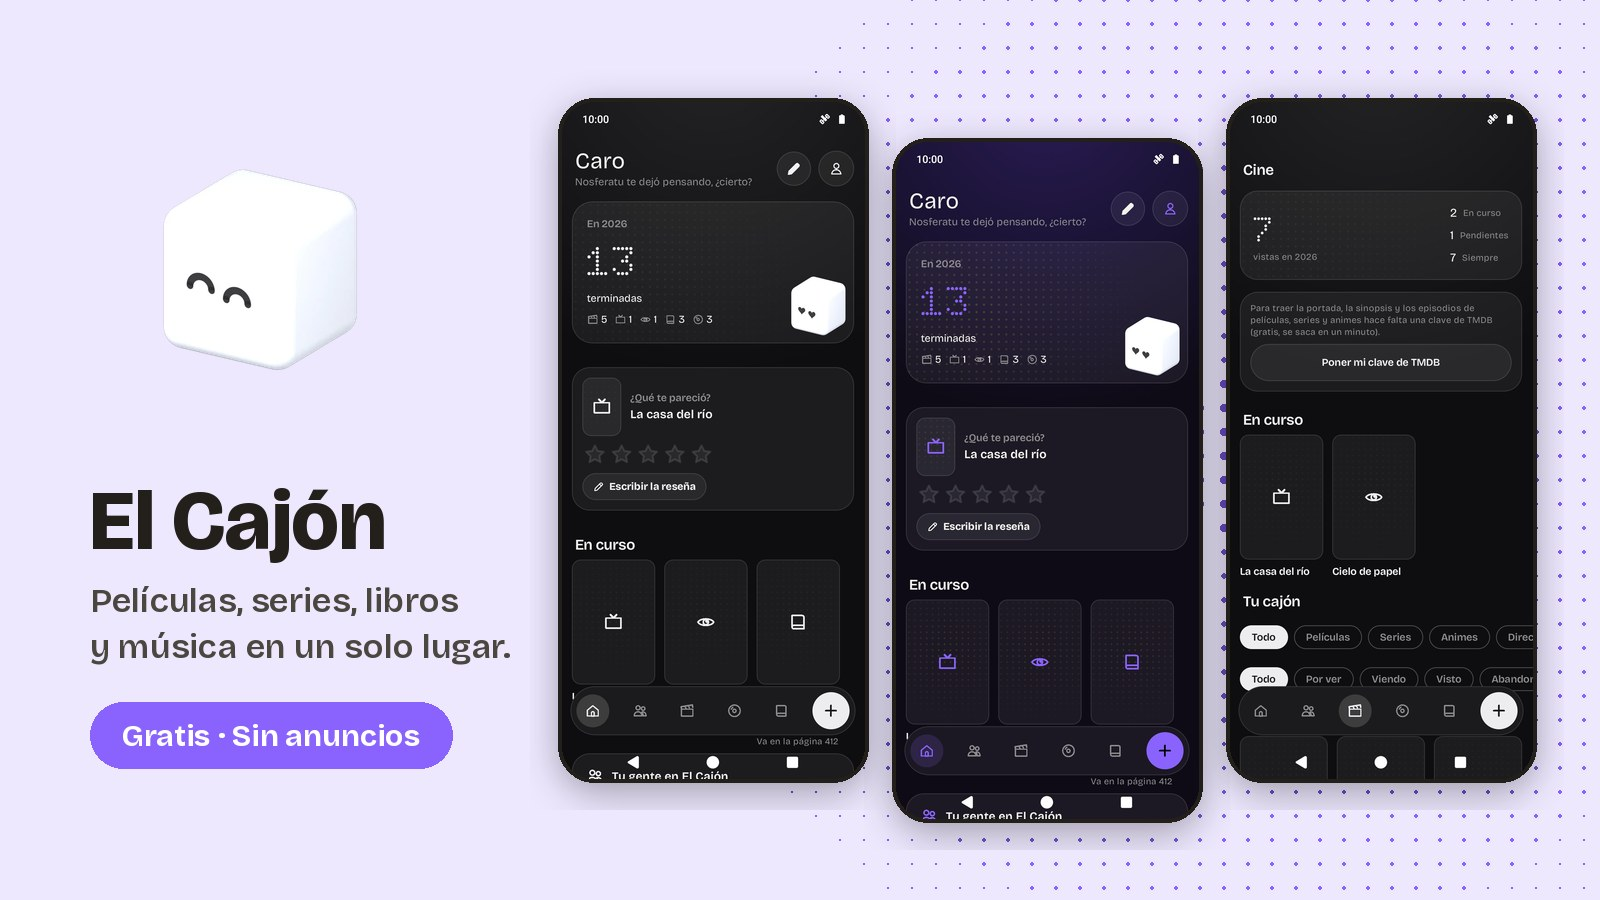
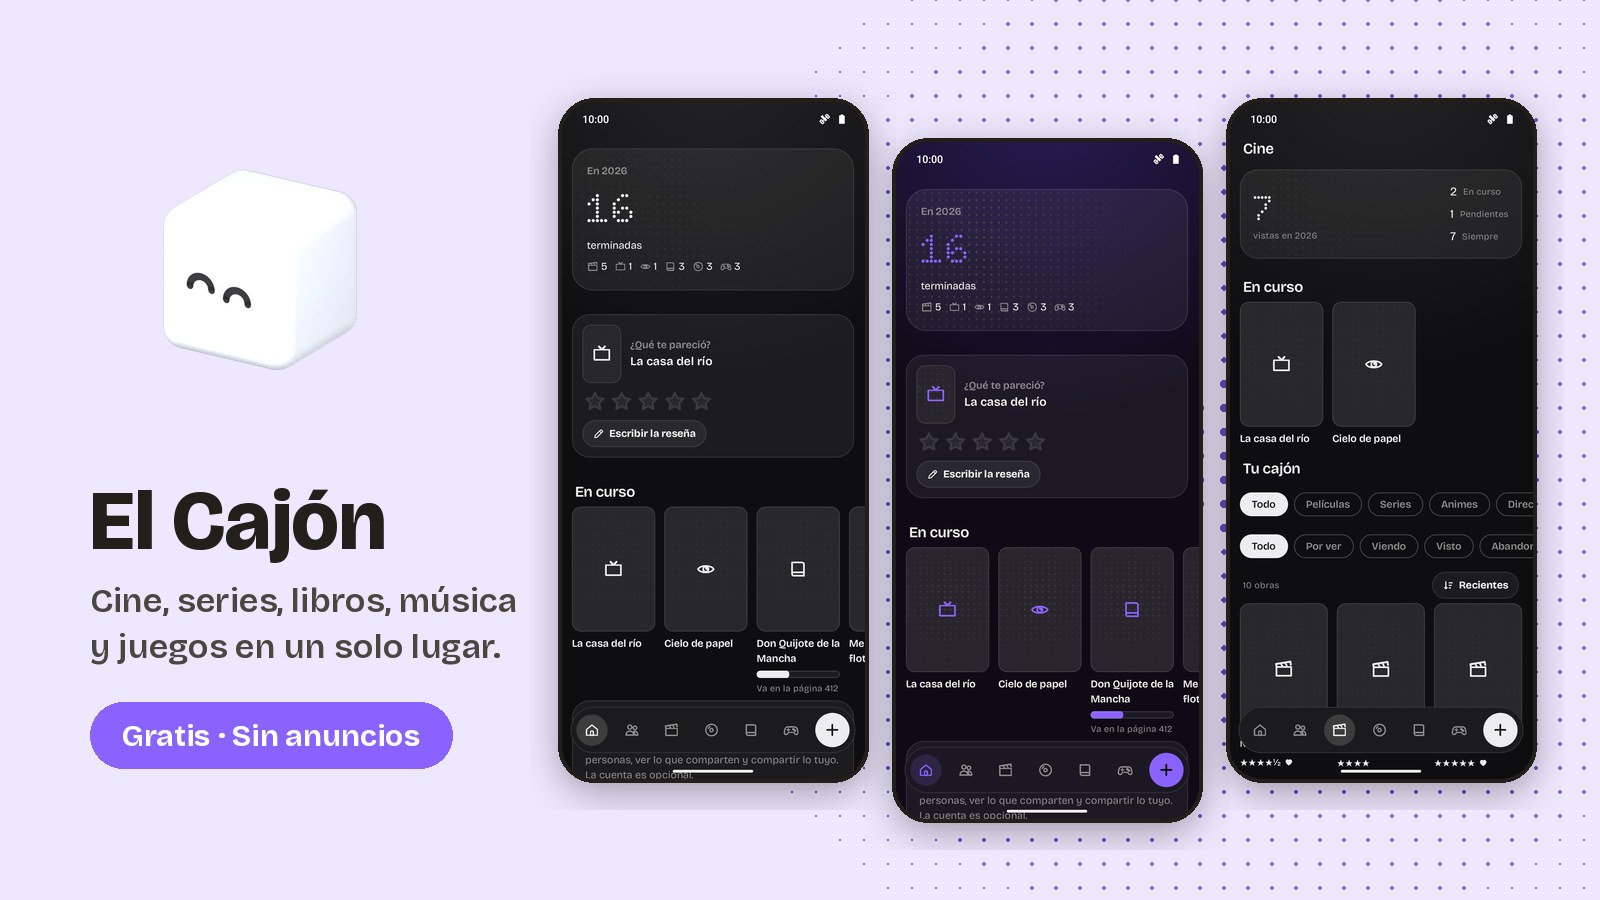
El Cajón con videojuegos: tarjeta y descripción al día

diff --git a/index.html b/index.html
@@ -115,7 +115,7 @@ footer img { width: 22px; vertical-align: middle; }
       <article class="app cajon" data-repo="el-cajon">
         <img src="recursos/cajon.webp" alt="" width="96" height="96">
         <h3>El Cajón</h3>
-        <p>Películas, series, animes, libros y música: tu nota, tu diario, tus listas y lo que escuchas.</p>
+        <p>Películas, series, animes, libros, música y videojuegos: tu nota, tu diario, tus listas y lo que escuchas.</p>
         <a class="boton" href="https://github.com/fogonapps/el-cajon/releases/latest">Descargar</a>
         <span class="version"></span>
       </article>
